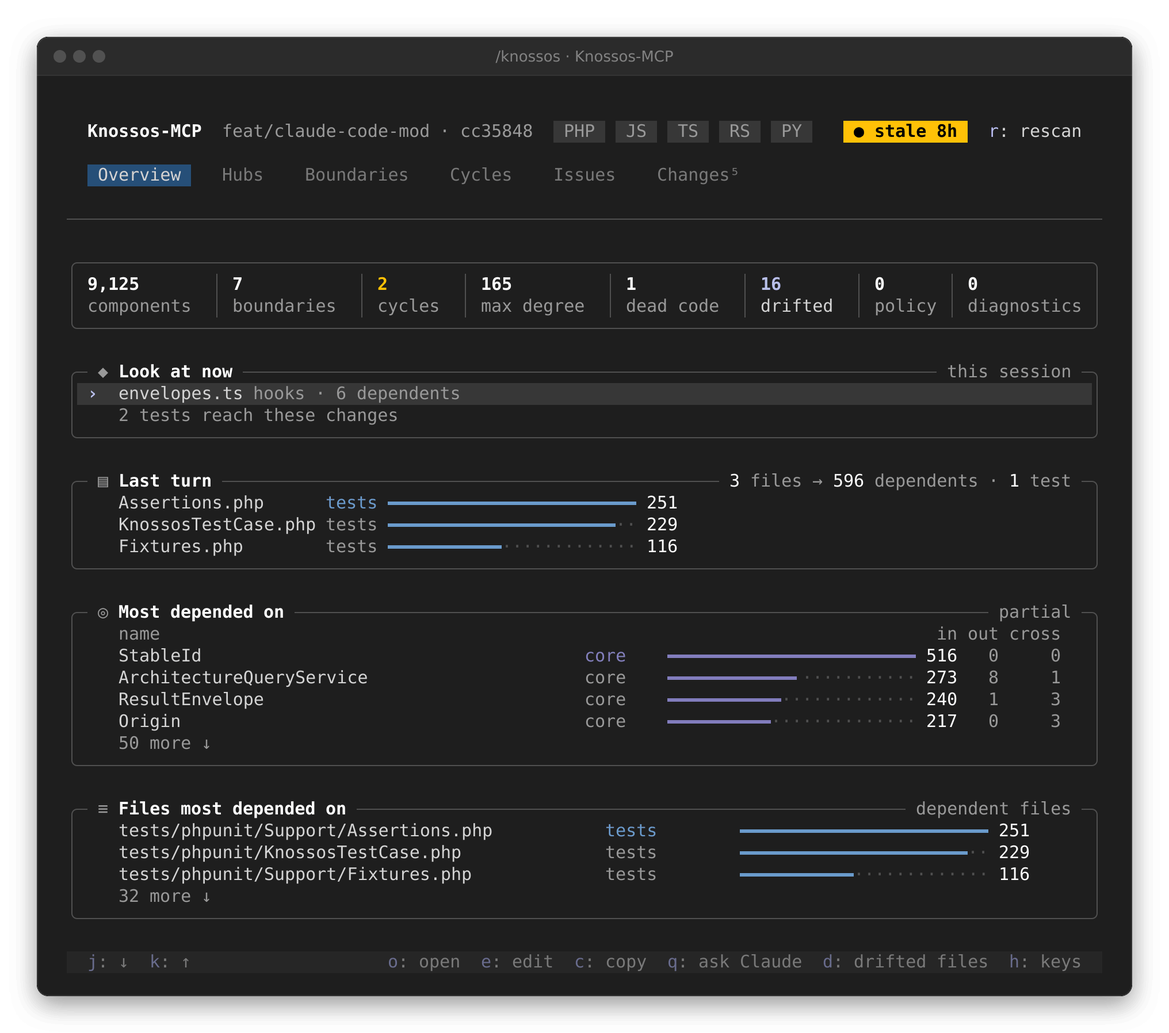
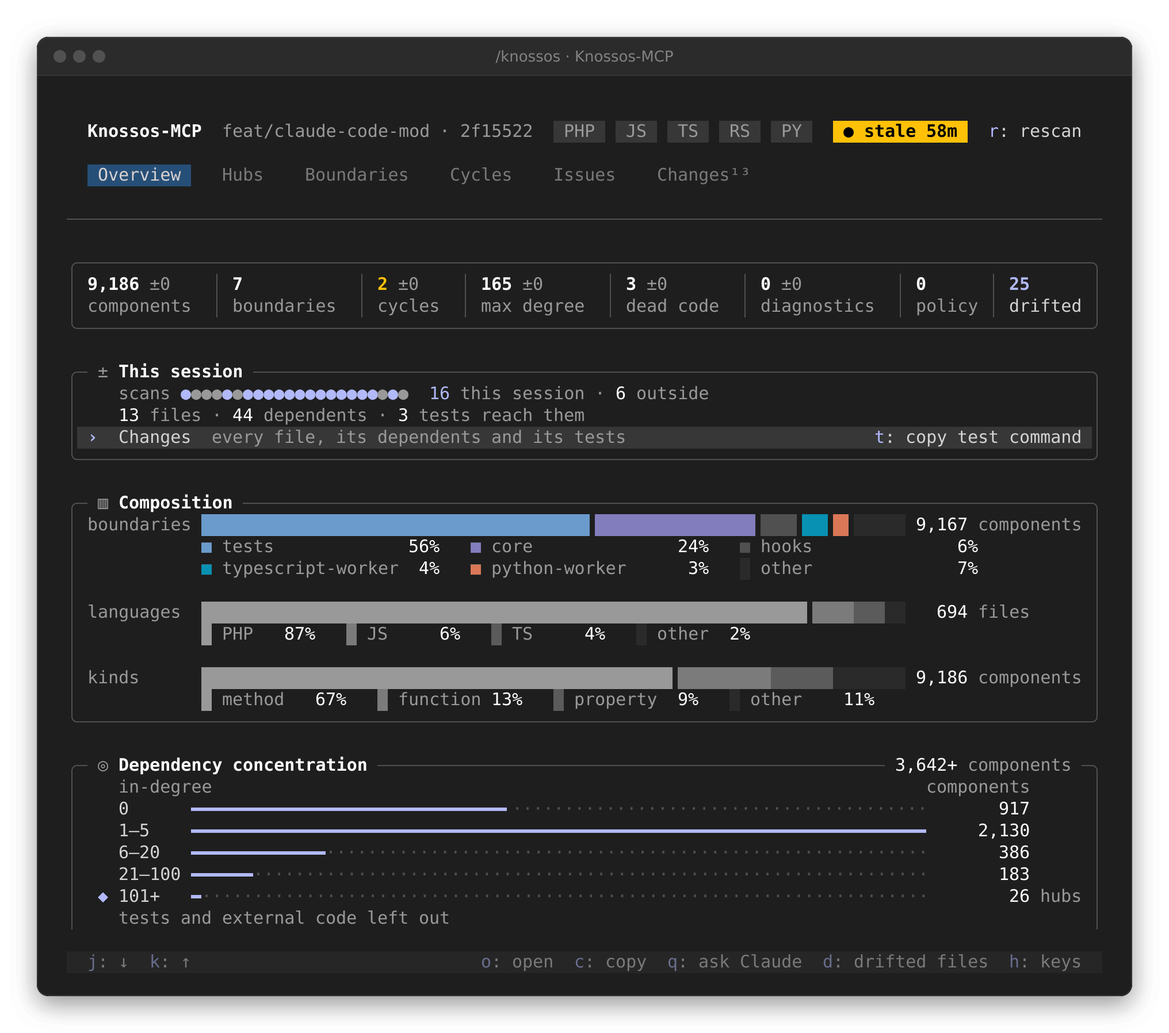
docs(mod): describe the Overview's tiles with deltas and its charts, Hubs as the one place for lists, the fixed grid and boundary chips, and redraw the README screenshots

diff --git a/docs/capabilities/claude-code-mod.md b/docs/capabilities/claude-code-mod.md
@@ -159,35 +159,44 @@ its body:
 | -------------------- | ------------------------------------------------------------------------------------------------------ |
 | narrow (below 80)    | one column; each section a light card: a top rule with its title in it, no sides, so no column is lost |
 | medium (80 to 130)   | one column of framed cards; tables add out, cross and the file each component is declared in           |
-| wide (more than 130) | a two-column grid of framed cards, so the right half is never left empty                               |
+| wide (more than 130) | a grid of framed cards: rows of two columns at fixed ratios, the cards of a row drawn equally tall     |
 
 A framed card is a thin rounded border in the theme's faintest colour, its
-title (and the section's note, such as `this session` or `all in core`) set
-into the top edge, one cell of padding inside. A small dim glyph before the
-title says what kind of card it is, the same on every tab: `◆` Look at now,
-`▤` Last turn, `◎` the most depended-on components, `≡` the files most
-depended on, `▦` the boundary map, `▥` the per-boundary table, `◈` the marked
-boundary, `⇄` the marked heat map cell and a detail's dependencies, `↻` cycles, `!` the Issues cards,
-`±` changes, `✓` the tests that reach them, `∿` the trend, `◇` a detail. Cards stand one blank row
-apart. Wide, each tab arranges its cards in two columns: Overview puts the
-stat tiles across the top, "Look at now" and the last turn left and the most
-depended on right (with the trend under it when the pane has rows to spare),
-and the small boundary map and the files most depended on under whichever
-column leaves the two ending closest in height; Hubs sets the files most
-depended on beside the components, the components' table taking the wider
-share; Boundaries puts the
-map beside the per-boundary table and the marked boundary; Cycles and a
-detail stand in one column at every width, since a diagram wants the room; Issues sets its cards in
-rows of equal height (the cards with nothing to list side by side first,
-then the lists in pairs, a shorter card stretched inside its frame to its
-neighbour's height, so no column ends half way down); Changes puts the tests
-beside the files.
+title in bold (and the section's note, such as `this session` or `all in
+core`) set into the top edge, one cell of padding inside. A small dim glyph
+before the title says what kind of card it is, the same on every tab: `±`
+this session and changes, `▥` the composition and the per-boundary table,
+`◎` the dependency concentration and the hubs, `∿` health over time, `⇄`
+the cross-boundary flows, the marked heat map cell and a detail's
+dependencies, `≡` the files most depended on, `▦` the boundary map, `◈` the
+marked boundary, `↻` cycles, `!` the Issues cards, `✓` the tests that reach
+the changes, `◇` a detail. A card with nothing to list is one line: its
+title and its note (or `none`) set into a rule, at every width. Cards stand
+one blank row apart; labels are dim, numbers right-aligned.
+
+Wide, each tab sets its cards on a fixed grid: rows of two columns two cells
+apart, at a fixed ratio per tab, the cards of a row drawn equally tall (a
+shorter one is stretched inside its frame), so no column ends half way down.
+Overview puts the stat tiles across the top, this session across the pane,
+then the composition beside the dependency concentration and health over
+time beside the cross-boundary flows, in two equal columns; Hubs sets the
+components (three fifths) beside the files most depended on; Boundaries the
+map beside the per-boundary table, then the marked boundary beside its cell;
+Changes the files beside the tests; Issues the cards with nothing to list side
+by side as one-line rules first, then the lists in pairs. Cycles and a
+detail stand in one column at every width, since a diagram wants the room.
+
+Nothing the pane draws can wrap or push its card wider, on a terminal that
+counts cells as the layout does or not: every piece of a row stands in a box
+exactly as wide as the layout gave it, every text cuts at that edge with an
+ellipsis, a pressable name draws the name as the layout cut it, and every
+row is a box as wide as the pane that clips what passes its edge.
 
 Lists size themselves to the rows the pane's body has: every list starts at
 a few rows, then the rows left after the rest of the tab are shared out
 between the lists in turn, up to ten each; then the charts take what they
-can use (the heat map's cells grow from one row to two or three, the trend
-appears as a chart); then the lists take the rest. A chart in one column of
+can use (the heat map's cells grow from one row to two or three); then the
+lists take the rest. A chart in one column of
 the wide grid stops growing once it would leave the other column more than
 three rows shorter. The dashboard sends up to fifty hubs, hotspots, dead-code
 candidates and largest files, enough for a tall pane. A list cut short says `n more ↓` (and `n above ↑`
@@ -211,7 +220,11 @@ stat tiles, the cards' notes and a detail keep them whole (`31,740`).
 The pane draws in your Claude Code theme's own colours (its theme keys), so it
 follows a dark, light, daltonized or ANSI theme. Colour carries meaning only:
 each boundary keeps one of seven subagent colours wherever it appears
-(declared boundaries first, largest first). Red is not one of them: on this
+(declared boundaries first, largest first), and only on a mark: a boundary
+is a chip, its colour on a small `■` swatch (and on its bar, its frame in a
+diagram) and its name in a text tone. No word is ever drawn in a boundary's
+colour, and status colours (`success`, `warning`, `error`) mean a status
+only, always beside a glyph or a word that says it. Red is not one of them: on this
 pane red means an error or a policy violation, never a boundary. An inferred
 boundary that got no colour of its own is drawn neutral rather than in a
 colour it would share by chance. Two boundaries whose short names differ only
@@ -232,22 +245,22 @@ still. Bars are thin rules on a dotted track.
 Knossos-MCP                          ● stale 11h   r: rescan
  Overview   2   3   4   5   6³
 
-7,878 components   7 boundaries   2 cycles   161 max degree
-55 dead code   46 drifted   0 policy   0 diagnostics
+9,186 components ▲12   7 boundaries   2 cycles ±0
+165 max degree ±0   3 dead code ▼1   0 diagnostics ±0
+0 policy   24 drifted
 
-── Look at now ───────────────────────────── this session ──
-›  TurnBriefService.php core · 21 dependents
-   t: copy test command   3 tests reach these changes
+── ± This session ──────────────────────────────────────────
+   scans ●●●●●●  6 this session
+   8 files · 841 dependents · 4 tests reach them
+›  Changes  every file, its dependents and its tests
+   t: copy test command
 
-── Last turn ───────────── 3 files → 29 dependents · 3 tests ──
-   TurnBriefService.php core  ━━━━━━━━━━━━━━━━━━ 21
-   register.tsx         hooks ━━━━━╸············  6
-   changes.ts           hooks ━━···············  2
-
-── Most depended on ─────────────────────── all in core · in ──
-   StableId                 ━━━━━━━━━━━━━━━━━━ 525
-   ArchitectureQueryService ━━━━━━━━━········· 262
-   4 more ↓
+── ◎ Dependency concentration ─────────── 3,642 components ──
+   in-degree                                     components
+   0        ━━━━━━━━━━━━━━━━········                    917
+   1–5      ━━━━━━━━━━━━━━━━━━━━━━━━━━━━━━━━━━━━━━━     2,130
+   6–20     ━━━━━━━·································    386
+ ◆ 101+     ╸·······································     26 hubs
 ```
 
 That is the narrow layout (60 columns): the header is the project's name and
@@ -259,7 +272,11 @@ are a framed band across the Overview, a faint rule between them, spread
 evenly; they wrap onto as few lines as hold them when they do not fit on one.
 A figure is in the text colour unless it deviates: cycles and diagnostics
 above zero in `warning`, policy violations in `error`, drifted files in the
-accent. A tile shows its trend when it has room and the series moves. The drifted
+accent. Beside each figure, how it moved since the snapshot retained before
+this one (`▲12`, `▼1`, `±0`): the glyph says which way, and only a figure
+that is a status (cycles, dead code, diagnostics) colours it, a rise in
+`warning` and a fall in `success`. A tile draws its trend as a sparkline in
+the accent when it has room and five snapshots or more move. The drifted
 tile's label is the button that lists the drifted files. Each card is framed,
 and its tables add columns:
 
@@ -269,10 +286,10 @@ and its tables add columns:
 │ components  │ boundaries  │ cycles  │ max degree  │ dead code  │ drifted  │ policy │ diagnostics │
 ╰──────────────────────────────────────────────────────────────────────────────────────────────────╯
 
-╭─ Most depended on ─────────────────────────────────────── all in core ─╮
-│   name                         in out cross where                      │
-│   StableId     ━━━━━━━━━━━━━━ 525   0     0 StableId.php:19            │
-╰────────────────────────────────────────────────────────────────────────╯
+╭─ ◎ Hubs and hotspots · sorted by in ───────────────────── partial ─╮
+│   name                  boundary        in out cross where          │
+│   StableId              ■ core   ━━━━━ 516   0     0 StableId.php:19 │
+╰─────────────────────────────────────────────────────────────────────╯
 ```
 
 ```text
@@ -319,48 +336,71 @@ Drifted since the snapshot                                 3
    src/Query/DashboardService.php                  core
 ```
 
-- **Overview:** the project, the snapshot's state and age, "Look at now"
-  once this session changed something (the touched file with the most
-  dependents, and how many tests reach this session's changes, whose command
-  `t` copies; a warning when none does), the last turn's impact (files,
-  dependents, tests: the last turn's alone, where "Look at now" counts the
-  whole session, and each section says which in its header), the stat tiles
+- **Overview:** measures; the lists are on Hubs. The stat tiles
   (components, boundaries, cycles, maximum degree, dead-code candidates,
-  drifted files, the project's policy violations and its diagnostic errors and
-  warnings), the most depended-on components and the files most depended on,
-  each as many as the height allows. One marker walks the
-  lists in the order a narrow pane draws them, and starts on the file "Look at
-  now" points at: `o` opens the marked file's or component's detail, `e` the
-  marked file in your editor (a hub opens at the line that declares it; one
-  the graph places nowhere, such as a stand-in for a vendor symbol, offers no
-  `e`). A trend appears only once there are five snapshots and the figure
-  moved; a flat line says nothing. It is a sparkline in its tile and, when
-  the pane has rows left after its lists, a chart several rows tall, a column
-  per snapshot, the highest and lowest figure on its axis (on the terminal a
-  `Raster` in the accent, where no pressable row shares its lines).
-  Resting the pointer on a component or file row (where the surface has a
-  pointer: not on mobile) shows a card over the rows below it, without
-  opening anything: its name and boundary, how many files depend on it (and a
-  component's in- and out-degree), and the three files that depend on it most
-  (the dashboard names them for every listed component and the first fifty
-  files). The surface reveals it alone; nothing reaches the mod.
+  diagnostic errors and warnings, policy violations, drifted files), each
+  with its delta and, where five snapshots or more move, a sparkline. Then
+  the charts, each in the one form that fits what it says:
+
+    **This session:** the session's scans as a timeline, how many files it
+    touched, their dependents and the tests that reach them (a warning when
+    none does), and the way to Changes, which the marker rests on first;
+    `t` copies the tests' command. Before anything changed, one line.
+
+    **Composition:** what the project is made of, as a 100%-stacked bar per
+    dimension: components by boundary (each in its colour, the five largest
+    named and the rest as `other`), files by language and components by kind
+    (one neutral ink told apart by texture, `█ ▓ ▒` and `░` for the rest, so
+    no colour means two things), the whole right-aligned beside each bar and
+    every part's share in a legend under it.
+
+    **Dependency concentration:** how many components have how many
+    dependents, in five buckets of in-degree (0, 1–5, 6–20, 21–100, 101+),
+    a bar each in the accent, the counts right-aligned and the top bucket
+    marked `◆` as the hubs. It counts every component the hub ranking could
+    hold (tests and external code left out). `o` or a press on a bucket opens
+    Hubs narrowed to it.
+
+    **Health over time:** one row per figure (cycles, unreferenced
+    candidates, maximum degree, diagnostics), each a small chart on its own
+    scale, all on one time axis (the same snapshots, column for column, oldest
+    left), the newest value right-aligned and its range beside it (`no
+change` for a flat one, drawn faint). Only with five snapshots or more.
+
+    **Cross-boundary flows:** the strongest dependencies from one boundary
+    to another, `■ tests → ■ core` and a bar with the count; one a declared
+    policy forbids has its bar in `error` and says `× forbidden`. `o` or a
+    press on one opens its cell on Boundaries.
+
+    The marker walks the way to Changes, the buckets, then the flows; `c`
+    copies and `q` asks about the one it rests on.
+
 - **Hubs:** hubs and hotspots as one list, one row per component, with its
   boundary and its in, out and cross-boundary degree, and beside them (below
   them when narrower) the files most depended on, each with how many files
   depend on it; the marker walks the components, then the files, and `o`
-  opens a file's detail. The filter narrows both.
+  opens a file's detail. The filter narrows both. Opened from an Overview
+  bucket, the list holds only the components in that range of in-degree
+  (`in-degree 101+ · 26 listed of 26`; the list holds the fifty most depended
+  on, the bucket may count more) and the files step aside; `x` clears it, as
+  does another tab.
   `◆` marks a hotspot
   that is not also a hub. Methods read `Class::method`. `f` opens a filter
   field: the list narrows as you type to the components whose name holds the
   text, Enter keeps the filter and `x` clears it. `s` sorts by in, out or
   cross-boundary degree in turn; the bar follows the sort, and the title says
-  it (`Hubs and hotspots · sorted by in`). A row shows its hover card here too. The sorted column's numbers are in
+  it (`Hubs and hotspots · sorted by in`). Resting the pointer on a row
+  (where the surface has a pointer: not on mobile) shows a card over the
+  rows below it, without opening anything: its name and boundary, how many
+  files depend on it (and a component's in- and out-degree), and the three
+  files that depend on it most (the dashboard names them for every listed
+  component and the first fifty files). The surface reveals it alone;
+  nothing reaches the mod. The sorted column's numbers are in
   the text colour and the other two are dimmed. When every listed row sits in
   one boundary, the boundary column goes and the header says it once
   (`all in core`); otherwise a row in the same boundary as the row above
-  draws its label dimmed, so the column reads by where the boundary changes.
-  The same holds for Overview's most depended on, and the last turn dims its
-  repeats. `e` opens a hub's file at its declaration, as on Overview.
+  draws its label fainter (its swatch keeps the colour), so the column reads
+  by where the boundary changes. `e` opens a hub's file at its declaration.
 - **Cycles:** the marked cycle drawn, and under it every cycle (the ten
   largest), each as a line naming its size, the boundary most of its members
   are in and how many others it reaches. The drawing is a serpentine of boxes,
@@ -369,7 +409,7 @@ Drifted since the snapshot                                 3
   and a return edge from the last along a lane under the boxes and up the
   left margin into the first, labelled `back to the start` where it has
   room. A cycle that spans boundaries frames each box in its boundary's
-  colour, with a legend, and marks each hop that crosses from one boundary
+  colour (the names stay in the text tone), with a legend of chips, and marks each hop that crosses from one boundary
   into another with `╫` (`╪` on a vertical hop), in the warning colour; one
   that stays in one boundary is drawn plain. The marked member's box is
   framed in the accent and tinted, the hops into and out of it in the accent
@@ -383,7 +423,8 @@ Drifted since the snapshot                                 3
   unfolds the cycle and marks the first member it hid. Members knossos did
   not list (past forty) close the loop as one `+N not listed` box. Below 50
   columns the drawing gives way to the chain as text
-  (`↻ a → b → c → ↻`, each hop in its boundary's colour) and a member a row.
+  (`↻ ■ a → ■ b → c → ↻`, each member after a swatch in its boundary's
+  colour) and a member a row.
 
     ```text
        ╭───────────────────────╮       ╭───────────────────────╮
@@ -400,7 +441,8 @@ Drifted since the snapshot                                 3
 - **Issues:** the declared policy violations (each with the offending file
   and line), the scan's errors and warnings, the first fifty dead-code
   candidates (`◇` marks one only tests reach) and the fifty largest files,
-  each list as long as the height allows.
+  each list as long as the height allows. A card with nothing to list is one
+  line (`── ! Policy violations ──── ✓ 0 ──`).
   The tab label carries the count of violations, errors and warnings, as in
   `Issues³`.
 - **Changes:** everything that changed in the project since this session
@@ -433,7 +475,7 @@ snapshot>`, read again after each scan the watcher sees, one read at a
   with `&&`. The paths are relative to the project root; when the session
   sits elsewhere (below an ancestor project's root), the command starts
   with `cd <project root> &&`, and so does the one in the model's note. `t`
-  copies it, as on Overview; `c` copies the marked file's path, as on every
+  copies it, as on Overview's session card; `c` copies the marked file's path, as on every
   list. `o` opens the marked file's detail and `e` the file in your editor.
   The tab label counts the files.
   The list lives for the session and keeps at most 500 files and 500 tests
@@ -466,8 +508,9 @@ snapshot>`, read again after each scan the watcher sees, one read at a
   other one. Rows are where a dependency starts, columns where it lands; the
   axes are lettered (`A`, `B`, ...) and the row labels spell the letters out.
   The map is one hue, the theme's accent, in four steps on a log scale of
-  the busiest cell, and a faint `·` where nothing crosses; only the axis
-  letters carry the boundaries' colours. The `error` colour marks a pair a
+  the busiest cell, and a faint `·` where nothing crosses; only a swatch in
+  the margin of each row carries its boundary's colour, the letters and
+  names stay in the text tones. The `error` colour marks a pair a
   declared policy forbids: `×` while nothing crosses it, an error tile once
   something does. On the terminal the map is one grid of solid tiles in the
   theme's colours (it follows a theme picked in `/config`, daltonized and
@@ -558,9 +601,9 @@ Tab or the arrows onto a row), `o` or Enter opens the marked row, `e` opens
 the marked row's file in your editor, `c` copies and `q` asks about it, `t`
 copies the test command, `d` lists the drifted files, `l` moves the
 Boundaries tab's cell, `b` goes back, `h` lists the keys, one a line. The keys mean the same on every tab. A component
-opens from the Overview, Hubs, Cycles and Issues tabs and from a detail; the
-pane looks it up by its canonical name. A file opens from Overview ("Look at
-now" and the last turn), Changes, the drifted files and a file's detail. Back
+opens from the Hubs, Cycles and Issues tabs and from a detail; the
+pane looks it up by its canonical name. A file opens from Hubs, Changes, the
+drifted files and a file's detail; an Overview bar opens the tab it counts. Back
 on the tab, the marker stands where the detail was opened from. Numbers of four digits or more are grouped
 (`10,867`), or compact in a narrow table.
 `/knossos inspect <component>` opens the pane on one component directly.
@@ -579,12 +622,13 @@ src/Query/StalenessProbe.php:21
 ╰──────────────────────╯                                   ╰──────────────────────╯
 ```
 
-The detail heads with the component's name, kind, boundary, file and line.
+The detail heads with the component's name, kind, boundary (as a chip), file and line.
 Below it, its neighbourhood drawn: the component in a box in the middle,
 what uses it fanning in from the left, each a box joined to a bus that enters
 the middle with an arrow, and what it uses fanning out to the right, the bus
 branching to each with an arrow; how many relationships run along each edge
-is set into it. Each box is framed in its boundary's colour. Each side shows
+is set into it. Each box is framed in its boundary's colour; its name stays
+in the text tone. Each side shows
 as many neighbours as the pane's height allows, around the marker, and the
 rest (those knossos did not list included) as one `+N more` box. Narrower
 than the three boxes and two edges need, the users stand above the
@@ -611,7 +655,7 @@ class), which knossos files under the first file that names them, and the
 module node that stands for the file itself; the fan-in figures in the band,
 the notes and Changes leave out the same stand-ins.
 
-A file opened from Changes (or from "Look at now") also shows, below the
+A file opened from Changes also shows, below the
 files that depend on it, how it changed since the session began: `git diff`
 against the commit the project was at when the session started (read once,
 by `knossos session-head`, before anything else; again after a `/clear`),

diff --git a/README.md b/README.md
@@ -382,31 +382,35 @@ route, is in [the agent plugin guide](docs/guides/agent-plugin.md).
 
 The same plugin carries a [Claude Code mod](docs/capabilities/claude-code-mod.md) that puts
 the graph on screen while a session works. The images below are rendered by
-`tools/pane-preview.mjs` from this repository's own graph. The "Last turn" figures come
-from a sample turn over real files, not from a recorded session. The Changes tab lists real
-changes to this repository, read from its scan ledger; which of them it marks as this
-session's is a sample.
+`tools/pane-preview.mjs` from this repository's own graph. The band's figures come from a
+sample turn over real files, not from a recorded session. The Changes tab and the session
+card list real changes to this repository, read from its scan ledger; which of them they
+mark as this session's is a sample.
 
 After a turn that edited files, one line above the prompt says how far the change reaches:
 the files, their dependents, the tests that reach them, and how old the figures are.
 
 ![The band above the Claude Code prompt](docs/images/claude-code-mod/band-prompt-dark.png)
 
-`/knossos` opens the pane. The Overview opens with a row of stat tiles (components,
-boundaries, cycles, the largest degree, dead code, drift, policy violations and
-diagnostics), coloured only where a figure needs your attention, then leads with the file
-this session touched that most of the project depends on, marked: `o` lists the files that depend on it, `e` opens it in your
-editor, and `t` copies the command for the tests that reach the changes. It draws in your
-Claude Code theme's own colours. The header names the project, its branch and commit and its
-languages, with the status as a pill. A live watcher, one per project shared by your
-sessions, rescans as files change, so the pill reads `● live · 7s` and the figures follow
-your edits and Claude's without a rescan. Resting the pointer on a component or file shows
-the three files that depend on it most, without opening it. A container install has no watcher: there the figures follow each
-turn's own scan, and the pane's `r` rescans on request.
+`/knossos` opens the pane. The Overview measures and leaves the lists to the Hubs tab. A row
+of stat tiles (components, boundaries, cycles, the largest degree, dead code, diagnostics,
+policy violations and drift) says how each figure moved since the previous snapshot, with a
+sparkline where it has a history. Under it: what this session touched and the way to its
+changes, with `t` to copy the command for the tests that reach them; the project as stacked
+bars by boundary, language and kind; how dependencies concentrate, an in-degree histogram
+whose buckets open the hubs in that range; health over time, one row per figure on a shared
+axis; and the strongest dependencies between boundaries, a forbidden one marked as such. It
+draws in your Claude Code theme's own colours, a boundary's colour only on its swatch and
+its bars. The header names the project, its branch and commit and its languages, with the
+status as a pill. A live watcher, one per project shared by your sessions, rescans as files
+change, so the pill reads `● live · 7s` and the figures follow your edits and Claude's
+without a rescan. On Hubs, resting the pointer on a component or file shows the three files
+that depend on it most, without opening it. A container install has no watcher: there the
+figures follow each turn's own scan, and the pane's `r` rescans on request.
 
 <picture>
   <source media="(prefers-color-scheme: light)" srcset="docs/images/claude-code-mod/overview-light.png">
-  <img alt="The pane's Overview: stat tiles, look at now, the last turn, and the components and files most depended on" src="docs/images/claude-code-mod/overview-dark.png">
+  <img alt="The pane's Overview: stat tiles with deltas, this session, the composition by boundary, language and kind, and the in-degree histogram" src="docs/images/claude-code-mod/overview-dark.png">
 </picture>
 
 The Changes tab lists everything that changed in the project since the session began,
@@ -429,8 +433,8 @@ under it, and `l` steps to the next one.
 
 The Cycles tab draws the marked cycle as boxes that snake across the pane, row by row, an
 arrow from each member to the next and a return edge that closes the loop back to the first.
-A cycle that spans boundaries frames each box in its boundary's colour and marks the hop
-where it crosses. `j` and `k` walk the members, `o` opens one, and `q` asks Claude how to
+A cycle that spans boundaries frames each box in its boundary's colour, with its names in the
+text colour, and marks the hop where it crosses. `j` and `k` walk the members, `o` opens one, and `q` asks Claude how to
 break the cycle. On a narrow pane a long cycle folds its middle into one box that unfolds
 when you open it. A component's or a file's detail is drawn the same way: what uses it
 fanning in on the left, what it uses fanning out on the right, each count on its edge.
